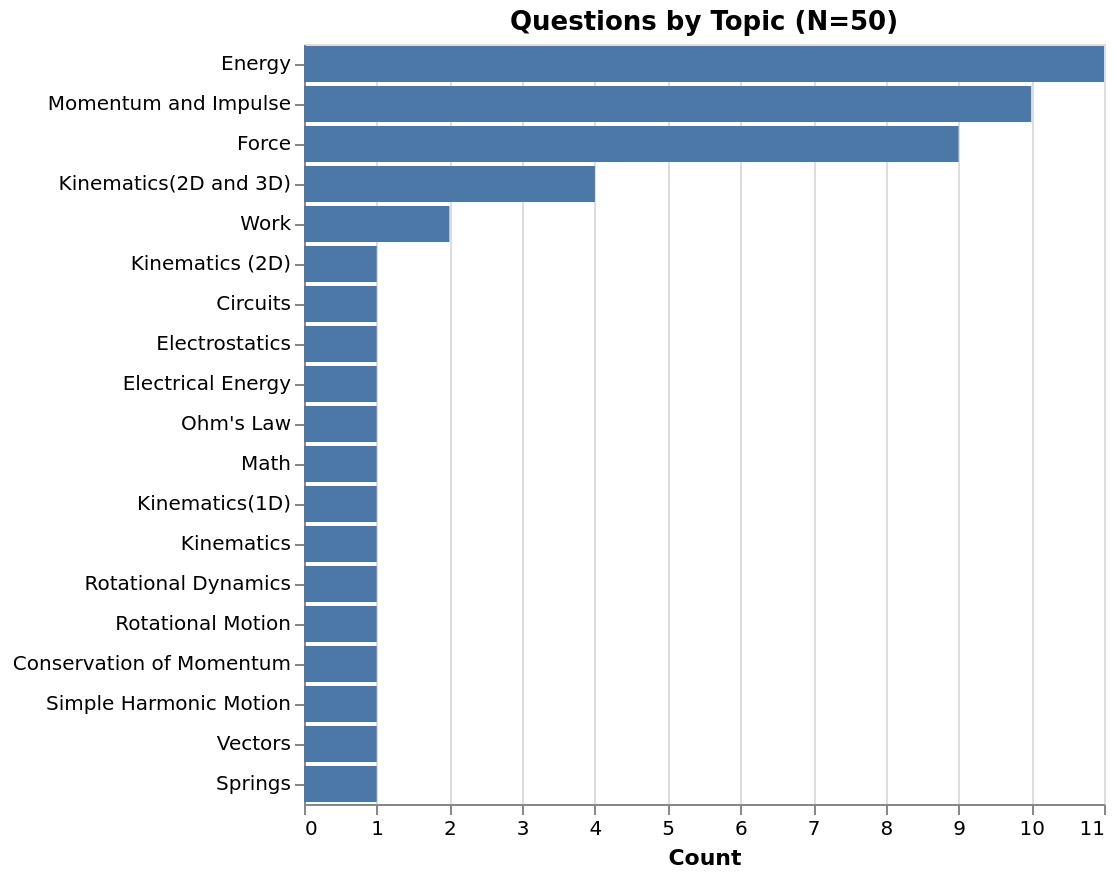
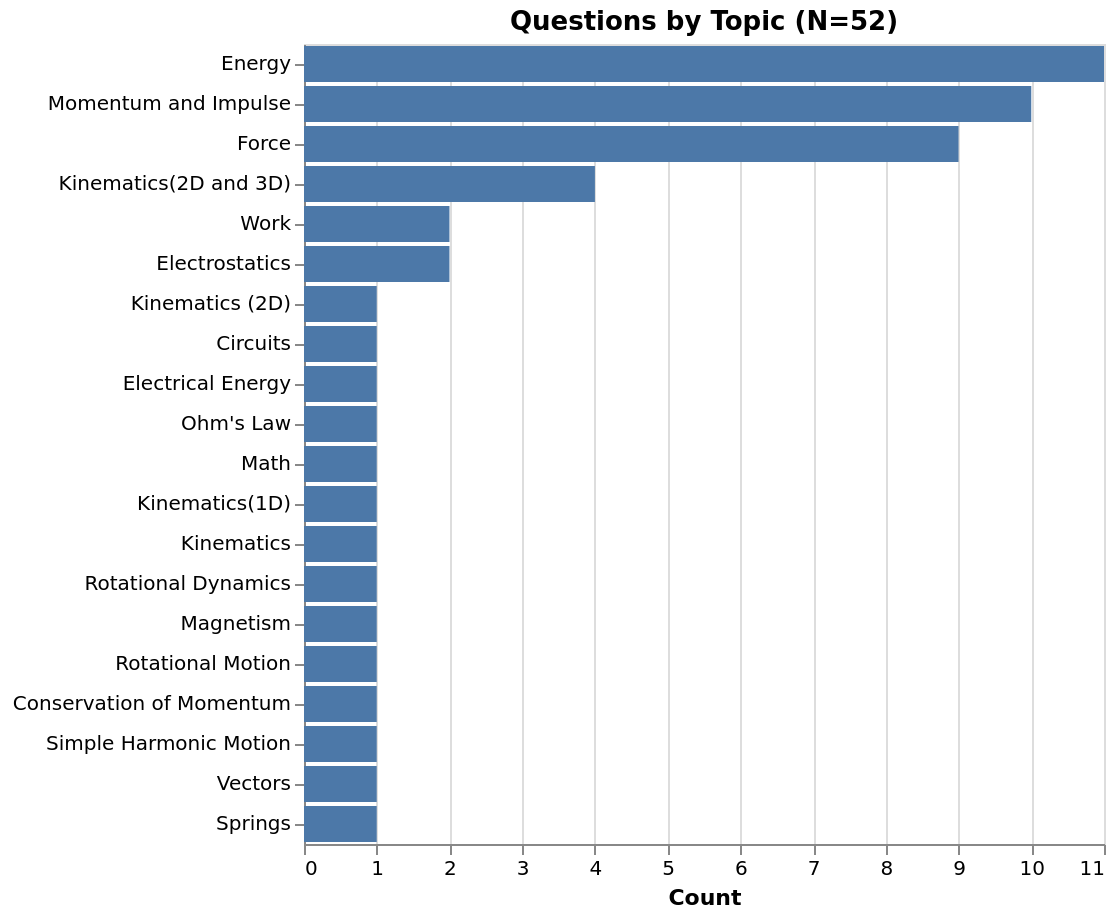
Update TOC via GH Action

Changed region(s): [[0.0, 0.0, 0.9749, 0.9533], [0.9749, 0.9226, 1.0, 0.9533], [0.6093, 0.9533, 0.6398, 0.9841]]

diff --git a/content/index.md b/content/index.md
@@ -1,0 +1,57 @@
+# Question Index 
+ 
+ 
+ | Question | Public HTML | Public MD | Instructor MD | PL |
+| --------- | --------- | --------- | --------- | --------- |
+1 |  [Q 1](https://firas.moosvi.com/oer/physicsbank/content/content/public/009.Work/Work/force_and_displacement/force_and_displacement.html)| [Q 1](https://github.com/open-resources/physics_bank/blob/main/content/content/public/009.Work/Work/force_and_displacement/force_and_displacement.md) | [Q 1](https://github.com/open-resources/instructor_physics_bank/blob/main/output/content/instructor/009.Work/Work/force_and_displacement/force_and_displacement.md) | [TBD]() | 
+2 |  [Q 2](https://firas.moosvi.com/oer/physicsbank/content/content/public/009.Work/Work-Energy%20Theorem/work_frictionless_surface/work_frictionless_surface.html)| [Q 2](https://github.com/open-resources/physics_bank/blob/main/content/content/public/009.Work/Work-Energy%20Theorem/work_frictionless_surface/work_frictionless_surface.md) | [Q 2](https://github.com/open-resources/instructor_physics_bank/blob/main/output/content/instructor/009.Work/Work-Energy%20Theorem/work_frictionless_surface/work_frictionless_surface.md) | [TBD]() | 
+3 |  [Q 3](https://firas.moosvi.com/oer/physicsbank/content/content/public/005.Kinematics%282D%20and%203D%29/Uniform%20Circular%20Motion/centripetal_force/centripetal_force.html)| [Q 3](https://github.com/open-resources/physics_bank/blob/main/content/content/public/005.Kinematics%282D%20and%203D%29/Uniform%20Circular%20Motion/centripetal_force/centripetal_force.md) | [Q 3](https://github.com/open-resources/instructor_physics_bank/blob/main/output/content/instructor/005.Kinematics%282D%20and%203D%29/Uniform%20Circular%20Motion/centripetal_force/centripetal_force.md) | [TBD]() | 
+4 |  [Q 4](https://firas.moosvi.com/oer/physicsbank/content/content/public/005.Kinematics%282D%20and%203D%29/Uniform%20Circular%20Motion/angular_speed/angular_speed.html)| [Q 4](https://github.com/open-resources/physics_bank/blob/main/content/content/public/005.Kinematics%282D%20and%203D%29/Uniform%20Circular%20Motion/angular_speed/angular_speed.md) | [Q 4](https://github.com/open-resources/instructor_physics_bank/blob/main/output/content/instructor/005.Kinematics%282D%20and%203D%29/Uniform%20Circular%20Motion/angular_speed/angular_speed.md) | [TBD]() | 
+5 |  [Q 5](https://firas.moosvi.com/oer/physicsbank/content/content/public/005.Kinematics%282D%20and%203D%29/Non-Uniform%20Circular%20Motion/Acceleration%20around%20a%20turn/Acceleration%20around%20a%20turn.html)| [Q 5](https://github.com/open-resources/physics_bank/blob/main/content/content/public/005.Kinematics%282D%20and%203D%29/Non-Uniform%20Circular%20Motion/Acceleration%20around%20a%20turn/Acceleration%20around%20a%20turn.md) | [Q 5](https://github.com/open-resources/instructor_physics_bank/blob/main/output/content/instructor/005.Kinematics%282D%20and%203D%29/Non-Uniform%20Circular%20Motion/Acceleration%20around%20a%20turn/Acceleration%20around%20a%20turn.md) | [TBD]() | 
+6 |  [Q 6](https://firas.moosvi.com/oer/physicsbank/content/content/public/005.Kinematics%282D%20and%203D%29/Non-Uniform%20Circular%20Motion/Turning_Car/Turning_car.html)| [Q 6](https://github.com/open-resources/physics_bank/blob/main/content/content/public/005.Kinematics%282D%20and%203D%29/Non-Uniform%20Circular%20Motion/Turning_Car/Turning_car.md) | [Q 6](https://github.com/open-resources/instructor_physics_bank/blob/main/output/content/instructor/005.Kinematics%282D%20and%203D%29/Non-Uniform%20Circular%20Motion/Turning_Car/Turning_car.md) | [TBD]() | 
+7 |  [Q 7](https://firas.moosvi.com/oer/physicsbank/content/content/public/005.Kinematics%282D%20and%203D%29/Projectile%20Motion/ski_jump/ski_jump.html)| [Q 7](https://github.com/open-resources/physics_bank/blob/main/content/content/public/005.Kinematics%282D%20and%203D%29/Projectile%20Motion/ski_jump/ski_jump.md) | [Q 7](https://github.com/open-resources/instructor_physics_bank/blob/main/output/content/instructor/005.Kinematics%282D%20and%203D%29/Projectile%20Motion/ski_jump/ski_jump.md) | [TBD]() | 
+8 |  [Q 8](https://firas.moosvi.com/oer/physicsbank/content/content/public/006.Force/Topic%20Outcome/The%20max%20acceleration%20without%20slipping/The%20max%20acceleration%20without%20slipping.html)| [Q 8](https://github.com/open-resources/physics_bank/blob/main/content/content/public/006.Force/Topic%20Outcome/The%20max%20acceleration%20without%20slipping/The%20max%20acceleration%20without%20slipping.md) | [Q 8](https://github.com/open-resources/instructor_physics_bank/blob/main/output/content/instructor/006.Force/Topic%20Outcome/The%20max%20acceleration%20without%20slipping/The%20max%20acceleration%20without%20slipping.md) | [TBD]() | 
+9 |  [Q 9](https://firas.moosvi.com/oer/physicsbank/content/content/public/006.Force/Topic%20Outcome/Elevator%20Movement%20Direction/Elevator%20Movement%20Direction.html)| [Q 9](https://github.com/open-resources/physics_bank/blob/main/content/content/public/006.Force/Topic%20Outcome/Elevator%20Movement%20Direction/Elevator%20Movement%20Direction.md) | [Q 9](https://github.com/open-resources/instructor_physics_bank/blob/main/output/content/instructor/006.Force/Topic%20Outcome/Elevator%20Movement%20Direction/Elevator%20Movement%20Direction.md) | [TBD]() | 
+10 |  [Q 10](https://firas.moosvi.com/oer/physicsbank/content/content/public/006.Force/Topic%20Outcome/velocity_netforce/velocity_netforce.html)| [Q 10](https://github.com/open-resources/physics_bank/blob/main/content/content/public/006.Force/Topic%20Outcome/velocity_netforce/velocity_netforce.md) | [Q 10](https://github.com/open-resources/instructor_physics_bank/blob/main/output/content/instructor/006.Force/Topic%20Outcome/velocity_netforce/velocity_netforce.md) | [TBD]() | 
+11 |  [Q 11](https://firas.moosvi.com/oer/physicsbank/content/content/public/006.Force/Topic%20Outcome/spring_on_incline/spring_on_incline.html)| [Q 11](https://github.com/open-resources/physics_bank/blob/main/content/content/public/006.Force/Topic%20Outcome/spring_on_incline/spring_on_incline.md) | [Q 11](https://github.com/open-resources/instructor_physics_bank/blob/main/output/content/instructor/006.Force/Topic%20Outcome/spring_on_incline/spring_on_incline.md) | [TBD]() | 
+12 |  [Q 12](https://firas.moosvi.com/oer/physicsbank/content/content/public/006.Force/Topic%20Outcome/Rotating%20ball/Rotating%20ball.html)| [Q 12](https://github.com/open-resources/physics_bank/blob/main/content/content/public/006.Force/Topic%20Outcome/Rotating%20ball/Rotating%20ball.md) | [Q 12](https://github.com/open-resources/instructor_physics_bank/blob/main/output/content/instructor/006.Force/Topic%20Outcome/Rotating%20ball/Rotating%20ball.md) | [TBD]() | 
+13 |  [Q 13](https://firas.moosvi.com/oer/physicsbank/content/content/public/006.Force/Equilibrium/Two%20blocks%20connected%20by%20a%20string/Two%20Blocks%20Connected%20by%20a%20String.html)| [Q 13](https://github.com/open-resources/physics_bank/blob/main/content/content/public/006.Force/Equilibrium/Two%20blocks%20connected%20by%20a%20string/Two%20Blocks%20Connected%20by%20a%20String.md) | [Q 13](https://github.com/open-resources/instructor_physics_bank/blob/main/output/content/instructor/006.Force/Equilibrium/Two%20blocks%20connected%20by%20a%20string/Two%20Blocks%20Connected%20by%20a%20String.md) | [TBD]() | 
+14 |  [Q 14](https://firas.moosvi.com/oer/physicsbank/content/content/public/006.Force/Dynamics%20of%20Circular%20Motion/object_on_string/object_on_string.html)| [Q 14](https://github.com/open-resources/physics_bank/blob/main/content/content/public/006.Force/Dynamics%20of%20Circular%20Motion/object_on_string/object_on_string.md) | [Q 14](https://github.com/open-resources/instructor_physics_bank/blob/main/output/content/instructor/006.Force/Dynamics%20of%20Circular%20Motion/object_on_string/object_on_string.md) | [TBD]() | 
+15 |  [Q 15](https://firas.moosvi.com/oer/physicsbank/content/content/public/006.Force/Friction/Frictional%20Force%20between%20tires%20and%20road/Frictional%20Force%20between%20tires%20and%20road.html)| [Q 15](https://github.com/open-resources/physics_bank/blob/main/content/content/public/006.Force/Friction/Frictional%20Force%20between%20tires%20and%20road/Frictional%20Force%20between%20tires%20and%20road.md) | [Q 15](https://github.com/open-resources/instructor_physics_bank/blob/main/output/content/instructor/006.Force/Friction/Frictional%20Force%20between%20tires%20and%20road/Frictional%20Force%20between%20tires%20and%20road.md) | [TBD]() | 
+16 |  [Q 16](https://firas.moosvi.com/oer/physicsbank/content/content/public/006.Force/Springs/Bungee_jumping/bungee_jumping.html)| [Q 16](https://github.com/open-resources/physics_bank/blob/main/content/content/public/006.Force/Springs/Bungee_jumping/bungee_jumping.md) | [Q 16](https://github.com/open-resources/instructor_physics_bank/blob/main/output/content/instructor/006.Force/Springs/Bungee_jumping/bungee_jumping.md) | [TBD]() | 
+17 |  [Q 17](https://firas.moosvi.com/oer/physicsbank/content/content/public/006.Force/Newton%27s%20Third%20Law/Force%20Vectors/force_vectors.html)| [Q 17](https://github.com/open-resources/physics_bank/blob/main/content/content/public/006.Force/Newton%27s%20Third%20Law/Force%20Vectors/force_vectors.md) | [Q 17](https://github.com/open-resources/instructor_physics_bank/blob/main/output/content/instructor/006.Force/Newton%27s%20Third%20Law/Force%20Vectors/force_vectors.md) | [TBD]() | 
+18 |  [Q 18](https://firas.moosvi.com/oer/physicsbank/content/content/public/021.Circuits/RC%20Circuits/OSUPv2p10_16/OSUPv2p10_16.html)| [Q 18](https://github.com/open-resources/physics_bank/blob/main/content/content/public/021.Circuits/RC%20Circuits/OSUPv2p10_16/OSUPv2p10_16.md) | [Q 18](https://github.com/open-resources/instructor_physics_bank/blob/main/output/content/instructor/021.Circuits/RC%20Circuits/OSUPv2p10_16/OSUPv2p10_16.md) | [TBD]() | 
+19 |  [Q 19](https://firas.moosvi.com/oer/physicsbank/content/content/public/021.Circuits/Current/OSUPv2.9.2/OSUPv2.9.2.html)| [Q 19](https://github.com/open-resources/physics_bank/blob/main/content/content/public/021.Circuits/Current/OSUPv2.9.2/OSUPv2.9.2.md) | [Q 19](https://github.com/open-resources/instructor_physics_bank/blob/main/output/content/instructor/021.Circuits/Current/OSUPv2.9.2/OSUPv2.9.2.md) | [TBD]() | 
+20 |  [Q 20](https://firas.moosvi.com/oer/physicsbank/content/content/public/021.Circuits/Electrical%20Energy/OSUPv2.9.16/OSUPv2.9.16.html)| [Q 20](https://github.com/open-resources/physics_bank/blob/main/content/content/public/021.Circuits/Electrical%20Energy/OSUPv2.9.16/OSUPv2.9.16.md) | [Q 20](https://github.com/open-resources/instructor_physics_bank/blob/main/output/content/instructor/021.Circuits/Electrical%20Energy/OSUPv2.9.16/OSUPv2.9.16.md) | [TBD]() | 
+21 |  [Q 21](https://firas.moosvi.com/oer/physicsbank/content/content/public/021.Circuits/Ohm%27s%20Law/OSUPv2.9.13/OSUPv2.9.13.html)| [Q 21](https://github.com/open-resources/physics_bank/blob/main/content/content/public/021.Circuits/Ohm%27s%20Law/OSUPv2.9.13/OSUPv2.9.13.md) | [Q 21](https://github.com/open-resources/instructor_physics_bank/blob/main/output/content/instructor/021.Circuits/Ohm%27s%20Law/OSUPv2.9.13/OSUPv2.9.13.md) | [TBD]() | 
+22 |  [Q 22](https://firas.moosvi.com/oer/physicsbank/content/content/public/001.Math/Integrals/Rocket/Rocket.html)| [Q 22](https://github.com/open-resources/physics_bank/blob/main/content/content/public/001.Math/Integrals/Rocket/Rocket.md) | [Q 22](https://github.com/open-resources/instructor_physics_bank/blob/main/output/content/instructor/001.Math/Integrals/Rocket/Rocket.md) | [TBD]() | 
+23 |  [Q 23](https://firas.moosvi.com/oer/physicsbank/content/content/public/004.Kinematics%281D%29/Motion%20Diagrams/Running_Dog/Running_Dog.html)| [Q 23](https://github.com/open-resources/physics_bank/blob/main/content/content/public/004.Kinematics%281D%29/Motion%20Diagrams/Running_Dog/Running_Dog.md) | [Q 23](https://github.com/open-resources/instructor_physics_bank/blob/main/output/content/instructor/004.Kinematics%281D%29/Motion%20Diagrams/Running_Dog/Running_Dog.md) | [TBD]() | 
+24 |  [Q 24](https://firas.moosvi.com/oer/physicsbank/content/content/public/004.Kinematics%281D%29/Position/distance_travelled/distance_travelled.html)| [Q 24](https://github.com/open-resources/physics_bank/blob/main/content/content/public/004.Kinematics%281D%29/Position/distance_travelled/distance_travelled.md) | [Q 24](https://github.com/open-resources/instructor_physics_bank/blob/main/output/content/instructor/004.Kinematics%281D%29/Position/distance_travelled/distance_travelled.md) | [TBD]() | 
+25 |  [Q 25](https://firas.moosvi.com/oer/physicsbank/content/content/public/018.Electrostatics/Electric%20Potential/Particle%20between%20charged%20plates/Particle%20between%20charged%20plates.html)| [Q 25](https://github.com/open-resources/physics_bank/blob/main/content/content/public/018.Electrostatics/Electric%20Potential/Particle%20between%20charged%20plates/Particle%20between%20charged%20plates.md) | [Q 25](https://github.com/open-resources/instructor_physics_bank/blob/main/output/content/instructor/018.Electrostatics/Electric%20Potential/Particle%20between%20charged%20plates/Particle%20between%20charged%20plates.md) | [TBD]() | 
+26 |  [Q 26](https://firas.moosvi.com/oer/physicsbank/content/content/public/011.Rotational%20Dynamics/Topic%20Outcome/thread_on_spool/thread_on_spool.html)| [Q 26](https://github.com/open-resources/physics_bank/blob/main/content/content/public/011.Rotational%20Dynamics/Topic%20Outcome/thread_on_spool/thread_on_spool.md) | [Q 26](https://github.com/open-resources/instructor_physics_bank/blob/main/output/content/instructor/011.Rotational%20Dynamics/Topic%20Outcome/thread_on_spool/thread_on_spool.md) | [TBD]() | 
+27 |  [Q 27](https://firas.moosvi.com/oer/physicsbank/content/content/public/008.Energy/Exploding_Asteroid/Exploding_Asteroid.html)| [Q 27](https://github.com/open-resources/physics_bank/blob/main/content/content/public/008.Energy/Exploding_Asteroid/Exploding_Asteroid.md) | [Q 27](https://github.com/open-resources/instructor_physics_bank/blob/main/output/content/instructor/008.Energy/Exploding_Asteroid/Exploding_Asteroid.md) | [TBD]() | 
+28 |  [Q 28](https://firas.moosvi.com/oer/physicsbank/content/content/public/008.Energy/Kinetic%20Energy/KE_energy_momentum/KE_energy_momentum.html)| [Q 28](https://github.com/open-resources/physics_bank/blob/main/content/content/public/008.Energy/Kinetic%20Energy/KE_energy_momentum/KE_energy_momentum.md) | [Q 28](https://github.com/open-resources/instructor_physics_bank/blob/main/output/content/instructor/008.Energy/Kinetic%20Energy/KE_energy_momentum/KE_energy_momentum.md) | [TBD]() | 
+29 |  [Q 29](https://firas.moosvi.com/oer/physicsbank/content/content/public/008.Energy/Kinetic%20Energy/KE_testmass/KE_testmass.html)| [Q 29](https://github.com/open-resources/physics_bank/blob/main/content/content/public/008.Energy/Kinetic%20Energy/KE_testmass/KE_testmass.md) | [Q 29](https://github.com/open-resources/instructor_physics_bank/blob/main/output/content/instructor/008.Energy/Kinetic%20Energy/KE_testmass/KE_testmass.md) | [TBD]() | 
+30 |  [Q 30](https://firas.moosvi.com/oer/physicsbank/content/content/public/008.Energy/Topic%20Outcome/frictionless_track/frictionless_track.html)| [Q 30](https://github.com/open-resources/physics_bank/blob/main/content/content/public/008.Energy/Topic%20Outcome/frictionless_track/frictionless_track.md) | [Q 30](https://github.com/open-resources/instructor_physics_bank/blob/main/output/content/instructor/008.Energy/Topic%20Outcome/frictionless_track/frictionless_track.md) | [TBD]() | 
+31 |  [Q 31](https://firas.moosvi.com/oer/physicsbank/content/content/public/008.Energy/Topic%20Outcome/spring_oscillations/spring_oscillations.html)| [Q 31](https://github.com/open-resources/physics_bank/blob/main/content/content/public/008.Energy/Topic%20Outcome/spring_oscillations/spring_oscillations.md) | [Q 31](https://github.com/open-resources/instructor_physics_bank/blob/main/output/content/instructor/008.Energy/Topic%20Outcome/spring_oscillations/spring_oscillations.md) | [TBD]() | 
+32 |  [Q 32](https://firas.moosvi.com/oer/physicsbank/content/content/public/008.Energy/Conservation%20of%20Energy/Cut%20The%20Rope/Cut%20The%20Rope.html)| [Q 32](https://github.com/open-resources/physics_bank/blob/main/content/content/public/008.Energy/Conservation%20of%20Energy/Cut%20The%20Rope/Cut%20The%20Rope.md) | [Q 32](https://github.com/open-resources/instructor_physics_bank/blob/main/output/content/instructor/008.Energy/Conservation%20of%20Energy/Cut%20The%20Rope/Cut%20The%20Rope.md) | [TBD]() | 
+33 |  [Q 33](https://firas.moosvi.com/oer/physicsbank/content/content/public/008.Energy/Conservation%20of%20Energy/Energy%20lost%20to%20air%20friction/energy_lost_air_friction.html)| [Q 33](https://github.com/open-resources/physics_bank/blob/main/content/content/public/008.Energy/Conservation%20of%20Energy/Energy%20lost%20to%20air%20friction/energy_lost_air_friction.md) | [Q 33](https://github.com/open-resources/instructor_physics_bank/blob/main/output/content/instructor/008.Energy/Conservation%20of%20Energy/Energy%20lost%20to%20air%20friction/energy_lost_air_friction.md) | [TBD]() | 
+34 |  [Q 34](https://firas.moosvi.com/oer/physicsbank/content/content/public/008.Energy/Conservation%20of%20Energy/ball_race/2012Final_q3.html)| [Q 34](https://github.com/open-resources/physics_bank/blob/main/content/content/public/008.Energy/Conservation%20of%20Energy/ball_race/2012Final_q3.md) | [Q 34](https://github.com/open-resources/instructor_physics_bank/blob/main/output/content/instructor/008.Energy/Conservation%20of%20Energy/ball_race/2012Final_q3.md) | [TBD]() | 
+35 |  [Q 35](https://firas.moosvi.com/oer/physicsbank/content/content/public/008.Energy/Conservation%20of%20Energy/Physics%20of%20Roller%20Coasters/Physics%20of%20Roller%20Coasters.html)| [Q 35](https://github.com/open-resources/physics_bank/blob/main/content/content/public/008.Energy/Conservation%20of%20Energy/Physics%20of%20Roller%20Coasters/Physics%20of%20Roller%20Coasters.md) | [Q 35](https://github.com/open-resources/instructor_physics_bank/blob/main/output/content/instructor/008.Energy/Conservation%20of%20Energy/Physics%20of%20Roller%20Coasters/Physics%20of%20Roller%20Coasters.md) | [TBD]() | 
+36 |  [Q 36](https://firas.moosvi.com/oer/physicsbank/content/content/public/008.Energy/Conservation%20of%20Energy/dissipative_process/dissipative_process.html)| [Q 36](https://github.com/open-resources/physics_bank/blob/main/content/content/public/008.Energy/Conservation%20of%20Energy/dissipative_process/dissipative_process.md) | [Q 36](https://github.com/open-resources/instructor_physics_bank/blob/main/output/content/instructor/008.Energy/Conservation%20of%20Energy/dissipative_process/dissipative_process.md) | [TBD]() | 
+37 |  [Q 37](https://firas.moosvi.com/oer/physicsbank/content/content/public/019.Magnetism/Magnetic%20Force/Electron%20in%20a%20Solenoid/Electron%20in%20a%20Solenoid.html)| [Q 37](https://github.com/open-resources/physics_bank/blob/main/content/content/public/019.Magnetism/Magnetic%20Force/Electron%20in%20a%20Solenoid/Electron%20in%20a%20Solenoid.md) | [Q 37](https://github.com/open-resources/instructor_physics_bank/blob/main/output/content/instructor/019.Magnetism/Magnetic%20Force/Electron%20in%20a%20Solenoid/Electron%20in%20a%20Solenoid.md) | [TBD]() | 
+38 |  [Q 38](https://firas.moosvi.com/oer/physicsbank/content/content/public/010.Rotational%20Motion/Topic%20Outcome/Wheel_of_fortune/Wheel_of_fortune.html)| [Q 38](https://github.com/open-resources/physics_bank/blob/main/content/content/public/010.Rotational%20Motion/Topic%20Outcome/Wheel_of_fortune/Wheel_of_fortune.md) | [Q 38](https://github.com/open-resources/instructor_physics_bank/blob/main/output/content/instructor/010.Rotational%20Motion/Topic%20Outcome/Wheel_of_fortune/Wheel_of_fortune.md) | [TBD]() | 
+39 |  [Q 39](https://firas.moosvi.com/oer/physicsbank/content/content/public/007.Momentum%20and%20Impulse/2D%20Collisions/light_heavy_collision/light_heavy_collision.html)| [Q 39](https://github.com/open-resources/physics_bank/blob/main/content/content/public/007.Momentum%20and%20Impulse/2D%20Collisions/light_heavy_collision/light_heavy_collision.md) | [Q 39](https://github.com/open-resources/instructor_physics_bank/blob/main/output/content/instructor/007.Momentum%20and%20Impulse/2D%20Collisions/light_heavy_collision/light_heavy_collision.md) | [TBD]() | 
+40 |  [Q 40](https://firas.moosvi.com/oer/physicsbank/content/content/public/007.Momentum%20and%20Impulse/2D%20Collisions/billiards_collision/billiards_collision.html)| [Q 40](https://github.com/open-resources/physics_bank/blob/main/content/content/public/007.Momentum%20and%20Impulse/2D%20Collisions/billiards_collision/billiards_collision.md) | [Q 40](https://github.com/open-resources/instructor_physics_bank/blob/main/output/content/instructor/007.Momentum%20and%20Impulse/2D%20Collisions/billiards_collision/billiards_collision.md) | [TBD]() | 
+41 |  [Q 41](https://firas.moosvi.com/oer/physicsbank/content/content/public/007.Momentum%20and%20Impulse/Conservation%20of%20Momentum/Raindrops_Collision/raindrops_collision.html)| [Q 41](https://github.com/open-resources/physics_bank/blob/main/content/content/public/007.Momentum%20and%20Impulse/Conservation%20of%20Momentum/Raindrops_Collision/raindrops_collision.md) | [Q 41](https://github.com/open-resources/instructor_physics_bank/blob/main/output/content/instructor/007.Momentum%20and%20Impulse/Conservation%20of%20Momentum/Raindrops_Collision/raindrops_collision.md) | [TBD]() | 
+42 |  [Q 42](https://firas.moosvi.com/oer/physicsbank/content/content/public/007.Momentum%20and%20Impulse/Conservation%20of%20Momentum/Isolated_systems/Isolated_systems.html)| [Q 42](https://github.com/open-resources/physics_bank/blob/main/content/content/public/007.Momentum%20and%20Impulse/Conservation%20of%20Momentum/Isolated_systems/Isolated_systems.md) | [Q 42](https://github.com/open-resources/instructor_physics_bank/blob/main/output/content/instructor/007.Momentum%20and%20Impulse/Conservation%20of%20Momentum/Isolated_systems/Isolated_systems.md) | [TBD]() | 
+43 |  [Q 43](https://firas.moosvi.com/oer/physicsbank/content/content/public/007.Momentum%20and%20Impulse/Conservation%20of%20Momentum/Explosions_and_Velocity/Explosions_and_Velocity.html)| [Q 43](https://github.com/open-resources/physics_bank/blob/main/content/content/public/007.Momentum%20and%20Impulse/Conservation%20of%20Momentum/Explosions_and_Velocity/Explosions_and_Velocity.md) | [Q 43](https://github.com/open-resources/instructor_physics_bank/blob/main/output/content/instructor/007.Momentum%20and%20Impulse/Conservation%20of%20Momentum/Explosions_and_Velocity/Explosions_and_Velocity.md) | [TBD]() | 
+44 |  [Q 44](https://firas.moosvi.com/oer/physicsbank/content/content/public/007.Momentum%20and%20Impulse/Conservation%20of%20Momentum/mass_spring_collision/mass_spring_collision.html)| [Q 44](https://github.com/open-resources/physics_bank/blob/main/content/content/public/007.Momentum%20and%20Impulse/Conservation%20of%20Momentum/mass_spring_collision/mass_spring_collision.md) | [Q 44](https://github.com/open-resources/instructor_physics_bank/blob/main/output/content/instructor/007.Momentum%20and%20Impulse/Conservation%20of%20Momentum/mass_spring_collision/mass_spring_collision.md) | [TBD]() | 
+45 |  [Q 45](https://firas.moosvi.com/oer/physicsbank/content/content/public/007.Momentum%20and%20Impulse/Conservation%20of%20Momentum/System_Open_or_Closed/System_Open_or_Closed.html)| [Q 45](https://github.com/open-resources/physics_bank/blob/main/content/content/public/007.Momentum%20and%20Impulse/Conservation%20of%20Momentum/System_Open_or_Closed/System_Open_or_Closed.md) | [Q 45](https://github.com/open-resources/instructor_physics_bank/blob/main/output/content/instructor/007.Momentum%20and%20Impulse/Conservation%20of%20Momentum/System_Open_or_Closed/System_Open_or_Closed.md) | [TBD]() | 
+46 |  [Q 46](https://firas.moosvi.com/oer/physicsbank/content/content/public/007.Momentum%20and%20Impulse/Impulse/airbag_collision/airbag_collision.html)| [Q 46](https://github.com/open-resources/physics_bank/blob/main/content/content/public/007.Momentum%20and%20Impulse/Impulse/airbag_collision/airbag_collision.md) | [Q 46](https://github.com/open-resources/instructor_physics_bank/blob/main/output/content/instructor/007.Momentum%20and%20Impulse/Impulse/airbag_collision/airbag_collision.md) | [TBD]() | 
+47 |  [Q 47](https://firas.moosvi.com/oer/physicsbank/content/content/public/007.Momentum%20and%20Impulse/Impulse/Bouncing_Ball/Bouncing_Ball.html)| [Q 47](https://github.com/open-resources/physics_bank/blob/main/content/content/public/007.Momentum%20and%20Impulse/Impulse/Bouncing_Ball/Bouncing_Ball.md) | [Q 47](https://github.com/open-resources/instructor_physics_bank/blob/main/output/content/instructor/007.Momentum%20and%20Impulse/Impulse/Bouncing_Ball/Bouncing_Ball.md) | [TBD]() | 
+48 |  [Q 48](https://firas.moosvi.com/oer/physicsbank/content/content/public/007.Momentum%20and%20Impulse/Momentum/Dinner_Plate/dinner_plate.html)| [Q 48](https://github.com/open-resources/physics_bank/blob/main/content/content/public/007.Momentum%20and%20Impulse/Momentum/Dinner_Plate/dinner_plate.md) | [Q 48](https://github.com/open-resources/instructor_physics_bank/blob/main/output/content/instructor/007.Momentum%20and%20Impulse/Momentum/Dinner_Plate/dinner_plate.md) | [TBD]() | 
+49 |  [Q 49](https://firas.moosvi.com/oer/physicsbank/content/content/public/007.Momentum%20and%20Impulse/Momentum/Momentum_and_Inertia/Momentum_and_Inertia.html)| [Q 49](https://github.com/open-resources/physics_bank/blob/main/content/content/public/007.Momentum%20and%20Impulse/Momentum/Momentum_and_Inertia/Momentum_and_Inertia.md) | [Q 49](https://github.com/open-resources/instructor_physics_bank/blob/main/output/content/instructor/007.Momentum%20and%20Impulse/Momentum/Momentum_and_Inertia/Momentum_and_Inertia.md) | [TBD]() | 
+50 |  [Q 50](https://firas.moosvi.com/oer/physicsbank/content/content/public/007.Momentum%20and%20Impulse/Momentum/Rock_Powered_Rocket/Rock_Powered_Rocket.html)| [Q 50](https://github.com/open-resources/physics_bank/blob/main/content/content/public/007.Momentum%20and%20Impulse/Momentum/Rock_Powered_Rocket/Rock_Powered_Rocket.md) | [Q 50](https://github.com/open-resources/instructor_physics_bank/blob/main/output/content/instructor/007.Momentum%20and%20Impulse/Momentum/Rock_Powered_Rocket/Rock_Powered_Rocket.md) | [TBD]() | 
+51 |  [Q 51](https://firas.moosvi.com/oer/physicsbank/content/content/public/003.Vectors/Topic%20Outcome/Choose_all_Vectors_Scalars/Choose_all_Vectors_Scalars.html)| [Q 51](https://github.com/open-resources/physics_bank/blob/main/content/content/public/003.Vectors/Topic%20Outcome/Choose_all_Vectors_Scalars/Choose_all_Vectors_Scalars.md) | [Q 51](https://github.com/open-resources/instructor_physics_bank/blob/main/output/content/instructor/003.Vectors/Topic%20Outcome/Choose_all_Vectors_Scalars/Choose_all_Vectors_Scalars.md) | [TBD]() | 
+52 |  [Q 52](https://firas.moosvi.com/oer/physicsbank/content/content/public/014.Elasticity/Topic%20Outcome/Identical%20Mass-Springs%20with%20different%20Displacement/Identical%20Mass-Springs%20with%20different%20Displacement.html)| [Q 52](https://github.com/open-resources/physics_bank/blob/main/content/content/public/014.Elasticity/Topic%20Outcome/Identical%20Mass-Springs%20with%20different%20Displacement/Identical%20Mass-Springs%20with%20different%20Displacement.md) | [Q 52](https://github.com/open-resources/instructor_physics_bank/blob/main/output/content/instructor/014.Elasticity/Topic%20Outcome/Identical%20Mass-Springs%20with%20different%20Displacement/Identical%20Mass-Springs%20with%20different%20Displacement.md) | [TBD]() | 
